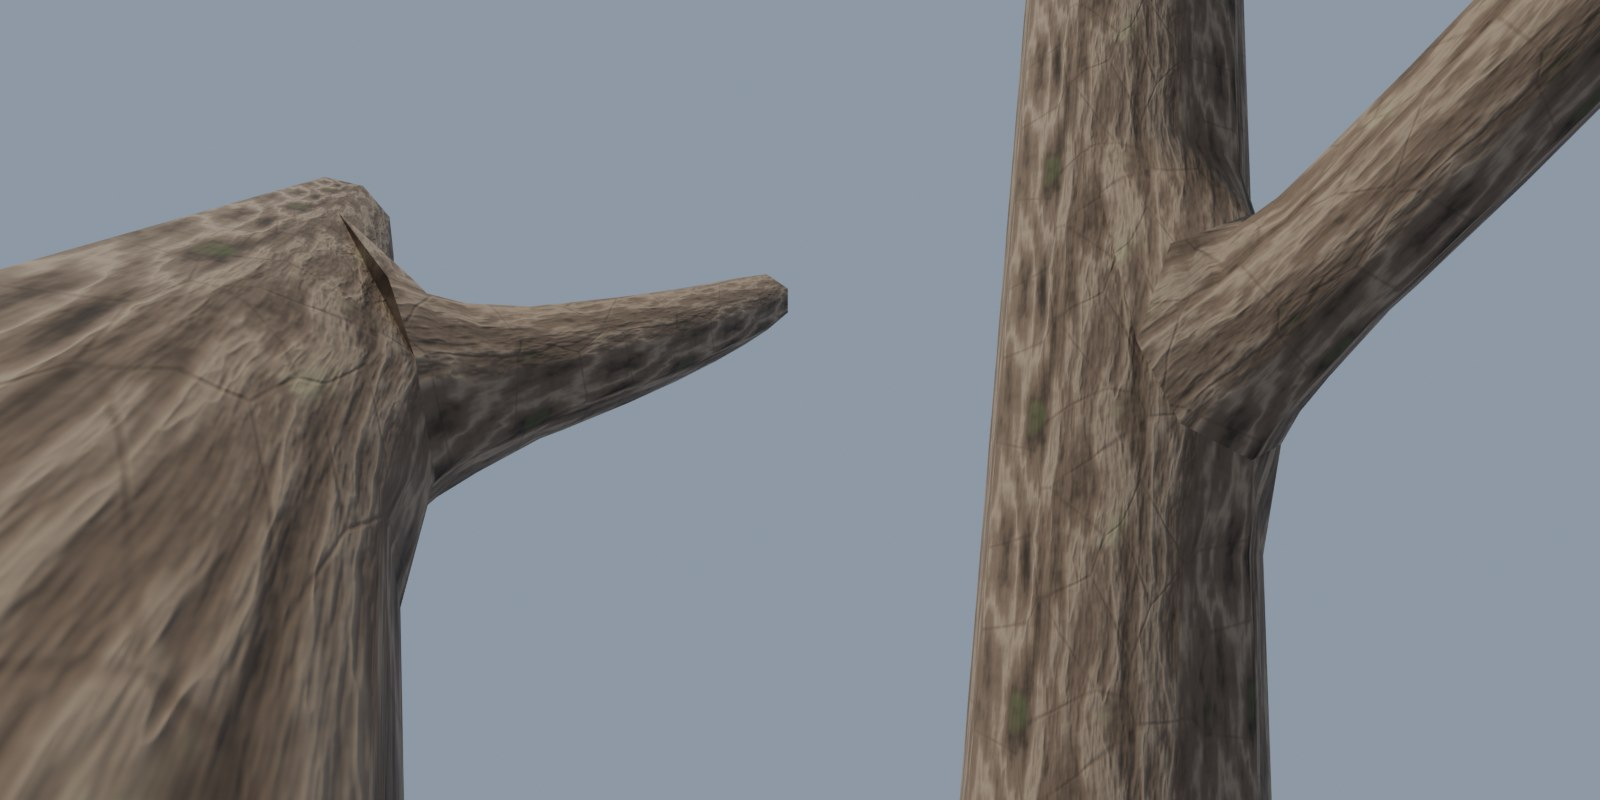
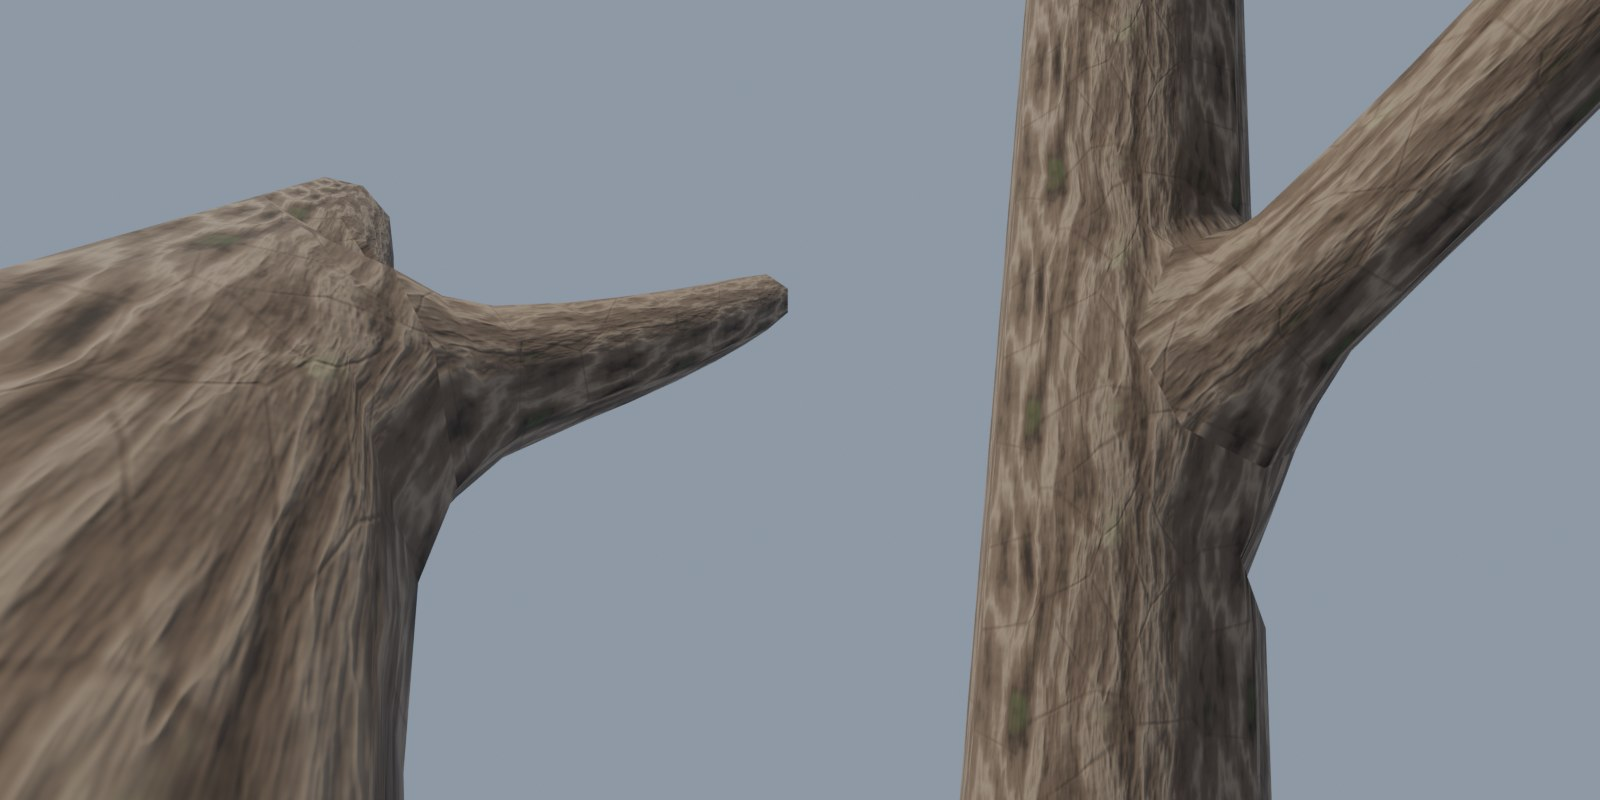
Trees: junction flare ring under a bough, broad crotch stitch, top-line ray test
The side cut is now stitched to a flare ring on the parent (blend wider under the child, tighter in
the axil) in the parent's unrolled bark; the cast takes the first way out. A fork keeps the parent's
own frame and splits along its two nearest vertex columns. top_line_cover() shoots rays along each
limb's top line.

Claude-Session: https://claude.ai/code/session_01M7kvU21XVNfCAcdQZ7o6vh

diff --git a/tools/blender/trees/junction.py b/tools/blender/trees/junction.py
@@ -123,6 +123,15 @@ class _Field:
         back = np.maximum(0.0, -((P - k["B"]) * k["c0"]).sum(1))  # no wood behind the child's start
         return k["ax"].dist(P, k["Rsw"]) + 2.0 * back
 
+    def kof(self, i, P):
+        """Blend radius at P: tight in the axil, wide under the child (the wood runs out along the
+        parent below a bough)."""
+        k = self.kids[i]
+        if self.mode == "fork":
+            return k["k"]
+        under = _ss(0.5 - ((P - k["X0"]) * k["tp"]).sum(1) / (2.0 * k["rc"]))
+        return k["k"] * (0.75 + (k["flare"] - 0.75) * under)
+
     def others(self, i, P):
         d = self.par.dist(P)
         for j in range(len(self.kids)):
@@ -134,8 +143,8 @@ class _Field:
         dp = self.par.dist(P)
         dc = [self.dkid(i, P) for i in range(len(self.kids))]
         f = dp
-        for i, k in enumerate(self.kids):
-            f = _smin(f, dc[i], k["k"])
+        for i in range(len(self.kids)):
+            f = _smin(f, dc[i], self.kof(i, P))
         if self.ridge > 0:
             if self.mode == "fork":
                 k = min(self.kids[0]["k"], self.kids[1]["k"])
@@ -160,8 +169,15 @@ class _Field:
 
     def cast(self, P, d, tmax):
         """Walk from P (inside or on the skin) along d to the skin."""
-        lo, hi = np.zeros(len(P)), np.full(len(P), float(tmax))
-        for _ in range(30):
+        n = len(P)
+        lo, hi, done = np.zeros(n), np.full(n, float(tmax)), np.zeros(n, bool)
+        for t in np.linspace(0.0, float(tmax), 25):  # the FIRST way out (a child may overhang the ray)
+            out = (self(P + t * d) >= 0) & ~done
+            hi = np.where(out, t, hi)
+            lo = np.where(done | out, lo, t)
+            done |= out
+        lo = np.minimum(lo, hi)
+        for _ in range(26):
             mid = 0.5 * (lo + hi)
             inside = self(P + mid[:, None] * d) < 0
             lo, hi = np.where(inside, mid, lo), np.where(inside, hi, mid)
@@ -186,6 +202,14 @@ class _Build:
         self.tri.append((a, b, c))
         self.uv.append((ua, ub, uc))
 
+    def strip_uv(self, ia, ib, uva, uvb):
+        """Quads between two closed rings of equal count, each vertex with its own bark coordinates."""
+        n = len(ia)
+        for j in range(n):
+            j1 = (j + 1) % n
+            self.add(ia[j], ia[j1], ib[j1], tuple(uva[j]), tuple(uva[j1]), tuple(uvb[j1]))
+            self.add(ia[j], ib[j1], ib[j], tuple(uva[j]), tuple(uvb[j1]), tuple(uvb[j]))
+
     def strip(self, ia, ib, n, cols, urep, va, vb):
         """Quads between two rings of n vertices for the columns `cols` (may run past n: u goes on)."""
         for j in cols:
@@ -195,11 +219,11 @@ class _Build:
             self.add(ia[j0], ia[j1], ib[j1], A, Bq, Cq)
             self.add(ia[j0], ib[j1], ib[j0], A, Cq, D)
 
-    def stitch(self, A, Bl, O, c, e1, e2):
-        """Triangles between two closed loops round the axis (O, c). A, Bl: lists of (index, point, uv)."""
+    def stitch(self, A, Bl, angle):
+        """Triangles between two closed loops, matched by angle(points (n,3)) -> radians round a
+        centre both loops go round. A, Bl: lists of (index, point, uv)."""
         def ang(L):
-            rel = np.array([p for _, p, _ in L]) - O
-            return np.arctan2((rel * e2).sum(1), (rel * e1).sum(1))
+            return angle(np.array([p for _, p, _ in L]))
 
         aA = ang(A)
         if np.sum(_wrap(np.diff(np.append(aA, aA[0])))) < 0:
@@ -238,7 +262,7 @@ class _Build:
         return P[vid], inv.reshape(-1, 3), uniq[:, 1:], Nrm[vid], T
 
 
-def _kid(par, C, R, swell, fillet, sB):
+def _kid(par, C, R, swell, fillet, sB, flare=1.0):
     """A child ready for the field: densely sampled near its base, swollen toward the parent."""
     C, R = np.asarray(C, float), np.asarray(R, float)
     raw = Axis(C, R)
@@ -252,7 +276,7 @@ def _kid(par, C, R, swell, fillet, sB):
     out = par.dist(c) > 0
     hx = float(hs[int(np.argmax(out))]) if out.any() else span
     Rsw = r * (1 + swell * (1 - _ss((hs - hx) / (1.6 * rc))))
-    return {"ax": ax, "Rsw": Rsw, "rc": rc, "k": k, "hx": hx, "span": span, "B": C[0], "c0": ax.T[0],
+    return {"ax": ax, "Rsw": Rsw, "rc": rc, "k": k, "flare": max(flare, 0.75), "hx": hx, "span": span, "B": C[0], "c0": ax.T[0],
             "X0": ax.at(hx)[0][0], "tp": par.at(sB)[2][0]}
 
 
@@ -262,7 +286,7 @@ def _collar(F, i, nc, fracs, margin):
     ax = k["ax"]
     hA = k["span"]
     for h in np.linspace(min(k["hx"] + 1.6 * k["rc"], k["span"]), k["span"], 40):  # first ring clear of the blend
-        if F.others(i, ax.ring(h, nc)[0]).min() >= k["k"]:
+        if F(ax.ring(h, nc)[0]).min() >= -1e-4:
             hA = float(h)
             break
     ang = np.arange(nc) * (2 * math.pi / nc)
@@ -285,7 +309,7 @@ def _collar(F, i, nc, fracs, margin):
             continue
         P, e = S(hi + t * (hA - hi))
         no = F.grad(P, lambda Q: F.others(i, Q))
-        P = F.cast(P, _norm(e + (1 - t) ** 2 * no), 2.5 * k["k"])
+        P = F.cast(P, _norm(e + (1 - t) ** 2 * no), 2.5 * k["k"] * k["flare"])
         rings.append((P, F.grad(P)))
     return rings, hA
 
@@ -317,8 +341,43 @@ def _child_skin(b, F, i, rings, hA, nc, urep, vtile, kid_raw_s, cap=True):
     return idx[0]
 
 
+def top_line_cover(V, F, limbs, step=0.2):
+    """The ray test for the squirrel's feet. For each limb (C, R) rays are shot at the centre line
+    from outside, along the limb's top line (the frame normal: world up made perpendicular to the
+    limb; +X for a vertical limb), every `step` studs. Returns per limb the lowest value of
+    (height of the skin above the centre line - the limb's own radius there): >= 0 means the skin
+    never falls below the radius between vertices."""
+    A, E1, E2 = V[F[:, 0]], V[F[:, 1]] - V[F[:, 0]], V[F[:, 2]] - V[F[:, 0]]
+    out = []
+    for C, R in limbs:
+        ax = Axis(C, R)
+        c, r, _, N, _ = ax.at(np.arange(0.0, ax.L, step))
+        O, d = c + N * (r[:, None] + 3.0), -N
+        free = np.ones(len(c), bool)  # only where the top line and the ray's start are in the open air
+        for C2, R2 in limbs:
+            if C2 is not C:
+                a2 = Axis(C2, R2)
+                free &= (a2.dist(c + N * r[:, None]) > 0) & (a2.dist(O) > 0)
+        O, d, r = O[free], d[free], r[free]
+        worst = np.inf
+        with np.errstate(divide="ignore", invalid="ignore"):
+            for o, dd, rr in zip(O, d, r):
+                pv = np.cross(dd[None], E2)
+                inv = 1.0 / (E1 * pv).sum(1)
+                tv = o[None] - A
+                u = (tv * pv).sum(1) * inv
+                qv = np.cross(tv, E1)
+                v = (qv @ dd) * inv
+                t = (E2 * qv).sum(1) * inv
+                hit = (u >= -1e-9) & (v >= -1e-9) & (u + v <= 1 + 1e-9) & (t > 0)
+                if hit.any():
+                    worst = min(worst, 3.0 - float(t[hit].min()))
+        out.append(worst)
+    return out
+
+
 def junction_mesh(parent, children, sides=10, child_sides=6, fillet=1.0, swell=0.16, ridge=0.10, collar_rings=2,
-                  u_rep=2, child_u_rep=1, v_tile=4.0, child_v_tile=None, saddle=9, fork_margin=0.22, start_normal=None,
+                  u_rep=2, child_u_rep=1, v_tile=4.0, child_v_tile=None, saddle=9, fork_margin=0.22, flare=1.7, start_normal=None,
                   cap_ends=True):
     """One skin for a parent limb and the children that leave it.
 
@@ -327,6 +386,9 @@ def junction_mesh(parent, children, sides=10, child_sides=6, fillet=1.0, swell=0
                   line - between its ends (a side branch) or at its last point (a fork: exactly two).
     sides         vertices round the parent (even); child_sides: round each child (int or one per child).
     fillet        blend radius as a fraction of the child's base radius (capped at 0.7 parent radii).
+    flare         side branch only: the blend radius under the child (the side toward the parent's base)
+                  as a multiple of fillet; in the axil it is 0.75 of fillet. A flare ring on the parent
+                  (child_sides vertices) carries the shape.
     swell         how much thicker the child is at its base (fraction of its radius), gone 1.6 radii out.
     ridge         height of the bark ridge in the axil, fraction of the child's radius (0 = none).
     collar_rings  rings between the valley ring and the child's first plain ring (cost: 2 x child_sides
@@ -354,7 +416,12 @@ def junction_mesh(parent, children, sides=10, child_sides=6, fillet=1.0, swell=0
         kd = [np.asarray(c[0], float) for c in children]
         m = _norm(_norm(kd[0][1] - kd[0][0]) - _norm(kd[1][1] - kd[1][0]))
         tp = _norm(P[-1] - P[-2])
-        par = Axis(P, Rp, start_normal, end_normal=np.cross(m, tp))
+        # the parent keeps its own frame (a vertex column on its top line); the wood splits along the
+        # two columns nearest the plane between the children
+        par = Axis(P, Rp, start_normal)
+        want = np.cross(m, tp)
+        ja = int(round(math.atan2(float(want @ par.B[-1]), float(want @ par.N[-1])) / (2 * math.pi / sides))) % sides
+        N_e = par.N[-1] * math.cos(ja * 2 * math.pi / sides) + par.B[-1] * math.sin(ja * 2 * math.pi / sides)
         kids = [_kid(par, c[0], c[1], swell, fillet, par.L) for c in children]
         F = _Field(par, kids, "fork", ridge)
         E, rp = P[-1], float(Rp[-1])
@@ -362,7 +429,7 @@ def junction_mesh(parent, children, sides=10, child_sides=6, fillet=1.0, swell=0
         for off in np.arange(0.3 * rp, 6 * rp, 0.1 * rp):  # the parent's last plain ring
             s_lo = par.L - off
             Q = par.ring(s_lo, sides)[0]
-            if min(F.dkid(0, Q).min() - kids[0]["k"], F.dkid(1, Q).min() - kids[1]["k"]) >= 0:
+            if F(Q).min() >= -1e-4:
                 break
         s_lo = max(s_lo, 0.0)
         st = [s for s in par.s if s < s_lo - 0.35 * rp] + [s_lo]
@@ -373,36 +440,45 @@ def junction_mesh(parent, children, sides=10, child_sides=6, fillet=1.0, swell=0
         ntri0 = len(b.tri)
         last = ridx[-1]
         Pl = par.ring(s_lo, sides)[0]
-        N_e, T_e = par.N[-1], par.T[-1]
+        T_e = par.T[-1]
         th_e = math.pi - math.atan2(float(par.at(s_lo)[1][0]), par.L - s_lo)
-        th = np.linspace(-th_e, th_e, saddle + 2)[1:-1]
+        # across the crotch: always a point level with the parent's end on each side (so the parent's
+        # own line stays a mesh edge right to its end), one below it if there is room, the rest above
+        low = [0.5 * (th_e + math.pi / 2)] if th_e - math.pi / 2 > math.radians(30) and saddle >= 7 else []
+        inner = np.linspace(-math.pi / 2, math.pi / 2, saddle - 2 * len(low))
+        th = np.concatenate([[-t for t in low], inner, low])
+        th[np.abs(th) < 1e-9] = 0.0
+        saddle = len(th)
         d = np.cos(th)[:, None] * T_e + np.sin(th)[:, None] * N_e
         Sp = F.cast(np.repeat(E[None], saddle, 0), d, par.L - s_lo + 8 * rp)
         sidx = b.pts(Sp, F.grad(Sp))
         sv = (par.L + (Sp - E) @ T_e) / v_tile
         h = sides // 2
+        # the valley between the children is the saddle line itself: each child's first ring sits a
+        # little way up its own bark, so the stitch to the saddle is made of broad triangles
+        ffr = list(np.linspace(0.3, 1.0, collar_rings + 1))
         for i in range(2):
-            rings, hA = _collar(F, i, ncs[i], fracs, fork_margin * kids[i]["rc"])
+            rings, hA = _collar(F, i, ncs[i], ffr, fork_margin * kids[i]["rc"])
             t0 = len(b.tri)
             c0 = _child_skin(b, F, i, rings, hA, ncs[i], child_u_rep, cvt, Axis(*children[i]).s, cap_ends)
-            body = 2 * ncs[i] * (len(fracs) - 1)
-            cols = range(0, h + 1) if i == 0 else range(h, sides + 1)
+            body = 2 * ncs[i] * (len(ffr) - 1)
+            cols = range(ja, ja + h + 1) if i == 0 else range(ja + h, ja + sides + 1)
             A = [(last[j % sides], Pl[j % sides], (j / sides * u_rep, s_lo / v_tile)) for j in cols]
             order = range(saddle) if i == 0 else range(saddle - 1, -1, -1)  # child 0: from -N round to +N
             for q in order:
                 if abs(th[q]) < 1e-9:
-                    u = (0.25 if i == 0 else 0.75) * u_rep
+                    u = (ja + (0.5 if i == 0 else 1.5) * h) / sides * u_rep
                 elif th[q] > 0:
-                    u = 0.0 if i == 0 else float(u_rep)
+                    u = (ja + (0 if i == 0 else sides)) / sides * u_rep
                 else:
-                    u = 0.5 * u_rep
+                    u = (ja + h) / sides * u_rep
                 A.append((sidx[q], Sp[q], (u, sv[q])))
             sp, ph = par.project(rings[0][0])
-            cen = math.pi / 2 if i == 0 else 3 * math.pi / 2
+            cen = (ja + (0.5 if i == 0 else 1.5) * h) * 2 * math.pi / sides
             ph = cen + _wrap(ph - cen)
             Bl = [(c0[j], rings[0][0][j], (ph[j] / (2 * math.pi) * u_rep, sp[j] / v_tile)) for j in range(ncs[i])]
             ax = kids[i]["ax"]
-            b.stitch(A, Bl, E, ax.T[0], ax.N[0], ax.B[0])
+            b.stitch(A, Bl, lambda X, ax=ax: np.arctan2((X - E) @ ax.B[0], (X - E) @ ax.N[0]))
             info["junction_tris"].append(len(A) + len(Bl) + body)
             info["ports"].append({"child": i, "first_plain_ring": hA, "parent_last_ring": s_lo})
             del t0
@@ -411,19 +487,33 @@ def junction_mesh(parent, children, sides=10, child_sides=6, fillet=1.0, swell=0
         sB = [float(par.project(np.asarray(c[0], float)[:1])[0][0]) for c in children]
         belts = []
         for i in range(nk):
-            kid = _kid(par, children[i][0], children[i][1], swell, fillet, sB[i])
+            kid = _kid(par, children[i][0], children[i][1], swell, fillet, sB[i], flare)
             F = _Field(par, [kid], "side", ridge)
             rings, hA = _collar(F, 0, ncs[i], fracs, 0.05 * kid["rc"])
-            sp, ph = par.project(rings[0][0])
+            # the flare ring: from each valley vertex out along the parent's bark, away from the child,
+            # about half way to where the blend ends (further below the child than above it)
+            sC, phC = par.project(rings[0][0])
+            cQ, rQ, _, NQ, BQ = par.at(sC)
+            nQ = np.cos(phC)[:, None] * NQ + np.sin(phC)[:, None] * BQ
+            Q = cQ + nQ * rQ[:, None]
+            g = F.grad(Q, lambda X: F.dkid(0, X))
+            gt = _norm(g - nQ * (g * nQ).sum(1, keepdims=True))
+            sD, phD = par.project(Q + gt * (0.55 * F.kof(0, Q))[:, None])
+            sD = np.clip(sD, 0.0, par.L)
+            cD, rD, _, ND, BD = par.at(sD)
+            nD = np.cos(phD)[:, None] * ND + np.sin(phD)[:, None] * BD
+            Dp = F.cast(cD + nD * rD[:, None], nD, 2.5 * kid["k"] * kid["flare"])
+            sp, ph = par.project(Dp)
             lim = []
-            for sgn, edge in ((-1, sp.min() - 0.9 * kid["rc"]), (1, sp.max() + 0.9 * kid["rc"])):
+            for sgn, edge in ((-1, sp.min() - 0.5 * kid["rc"]), (1, sp.max() + 0.5 * kid["rc"])):
                 s = sB[i]
-                for off in np.arange(0.3 * kid["rc"], 10 * kid["rc"], 0.1 * kid["rc"]):
+                for off in np.arange(0.3 * kid["rc"], 14 * kid["rc"], 0.1 * kid["rc"]):
                     s = sB[i] + sgn * off
-                    if (s - edge) * sgn >= 0 and F.dkid(0, par.ring(np.clip(s, 0, par.L), sides)[0]).min() >= kid["k"]:
+                    if (s - edge) * sgn >= 0 and F(par.ring(np.clip(s, 0, par.L), sides)[0]).min() >= -1e-4:
                         break
                 lim.append(float(np.clip(s, 0.0, par.L)))
-            belts.append({"lo": lim[0], "hi": lim[1], "F": F, "rings": rings, "hA": hA, "sp": sp, "ph": ph, "i": i})
+            belts.append({"lo": lim[0], "hi": lim[1], "F": F, "rings": rings, "hA": hA, "sp": sp, "ph": ph, "i": i,
+                          "D": Dp, "sC": sC, "phC": phC})
         belts.sort(key=lambda q: q["lo"])
         for q0, q1 in zip(belts[:-1], belts[1:]):
             if q1["lo"] < q0["hi"] - 1e-9:
@@ -455,10 +545,21 @@ def junction_mesh(parent, children, sides=10, child_sides=6, fillet=1.0, swell=0
             Plo, Phi = par.ring(s0, sides)[0], par.ring(s1, sides)[0]
             A = [(ridx[r][j % sides], Plo[j % sides], (j / sides * u_rep, s0 / v_tile)) for j in range(j_lo, j_hi + 1)]
             A += [(ridx[r + 1][j % sides], Phi[j % sides], (j / sides * u_rep, s1 / v_tile)) for j in range(j_hi, j_lo - 1, -1)]
-            Bl = [(c0[j], rings[0][0][j], (ph[j] / (2 * math.pi) * u_rep, q["sp"][j] / v_tile)) for j in range(ncs[i])]
-            ax = kid["ax"]
-            b.stitch(A, Bl, kid["X0"], ax.T[0], ax.N[0], ax.B[0])
-            info["junction_tris"].append(len(A) + len(Bl) + body - 2 * (j_hi - j_lo))
+            Dp = q["D"]
+            didx = b.pts(Dp, F.grad(Dp))
+            phC = ph0 + _wrap(q["phC"] - ph0)
+            uvD = np.stack([ph / (2 * math.pi) * u_rep, q["sp"] / v_tile], axis=1)
+            uvC = np.stack([phC / (2 * math.pi) * u_rep, q["sC"] / v_tile], axis=1)
+            b.strip_uv(didx, c0, uvD, uvC)  # the parent's bark runs up the flare to the valley
+            Bl = [(didx[j], Dp[j], tuple(uvD[j])) for j in range(ncs[i])]
+            s_c, ph_c, r_c = float(q["sp"].mean()), float(ph.mean()), float(par.at(q["sp"].mean())[1][0])
+
+            def unrolled(X):  # angle round the middle of the cut, on the parent's bark laid flat
+                sx, px = par.project(X)
+                return np.arctan2(sx - s_c, r_c * (ph0 + _wrap(px - ph0) - ph_c))
+
+            b.stitch(A, Bl, unrolled)
+            info["junction_tris"].append(len(A) + len(Bl) + body + 2 * ncs[i] - 2 * (j_hi - j_lo))
             info["ports"].append({"child": i, "first_plain_ring": q["hA"], "parent_rings": (s0, s1)})
             del t0
         if cap_ends:

diff --git a/tools/blender/trees/junction_demo.py b/tools/blender/trees/junction_demo.py
@@ -164,6 +164,9 @@ def main():
         parent, kids, opts, sq, far = case(name)
         V, F, UV, N, info = jn.junction_mesh(parent, kids, **opts)
         print(name, {k: v for k, v in info.items() if k != "ports"}, info["ports"], flush=True)
+        fn = jn._norm(np.cross(V[F[:, 1]] - V[F[:, 0]], V[F[:, 2]] - V[F[:, 0]]))
+        print("  top-line cover (parent, children):", [round(x, 4) for x in jn.top_line_cover(V, F, [parent] + kids)],
+              " least facet.normal:", round(float((fn[:, None, :] * N[F]).sum(2).min()), 2), flush=True)
         if not args.check:
             print("wrote", render(name, V, F, UV, N, (sq, far), args), flush=True)
 
